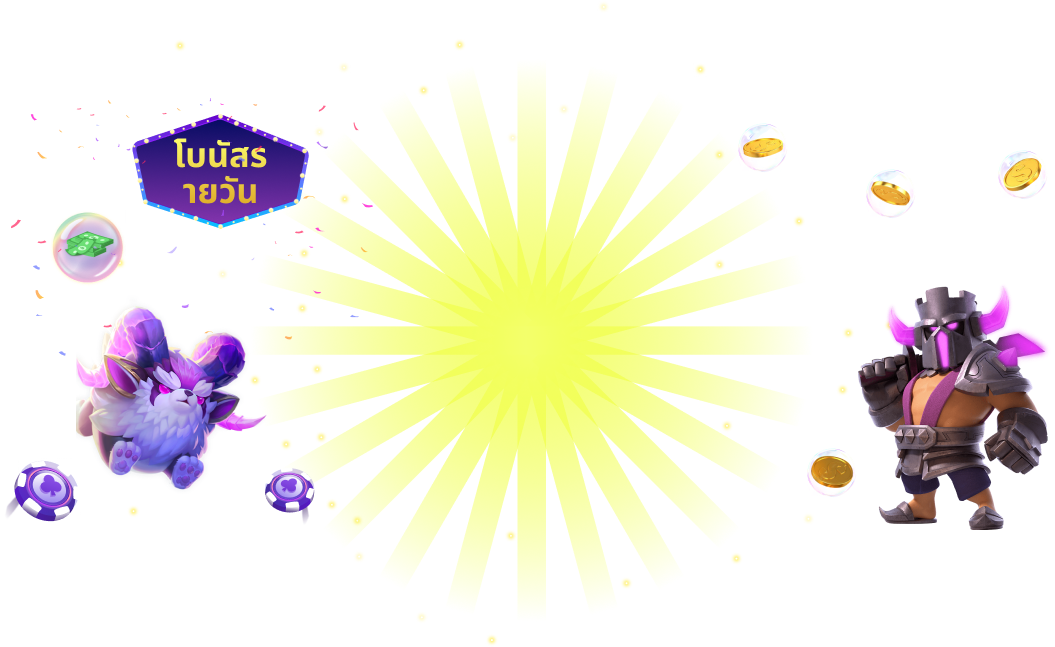
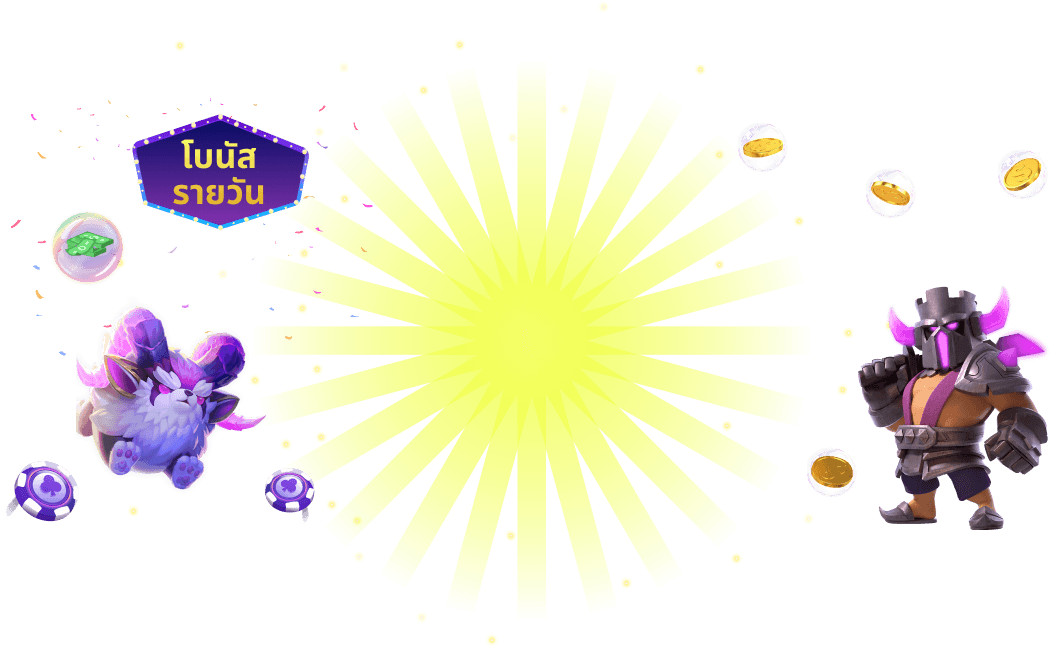
style: THA - update spin wheel bg & remove text

Changed region(s): [[0.1213, 0.1855, 0.3033, 0.3709], [0.1517, 0.5873, 0.182, 0.6182]]

diff --git a/tha-static-h5/src/components/hotpromo/80/PromoSpinWheelWinner.vue b/tha-static-h5/src/components/hotpromo/80/PromoSpinWheelWinner.vue
@@ -26,10 +26,10 @@
       <img class="treasure-box-img" src="../../../assets/images/promotion/spinwheel/treasure_box.png" />
     </div>
 
-    <div class="note">
+    <!-- <div class="note">
       Come back daily to complete the multiwheel !
       <div>Come back daily to unlock the inside wheel and more chance to get bigger price and Iphone15 pro max !</div>
-    </div>
+    </div> -->
   </div>
 </template>
 
